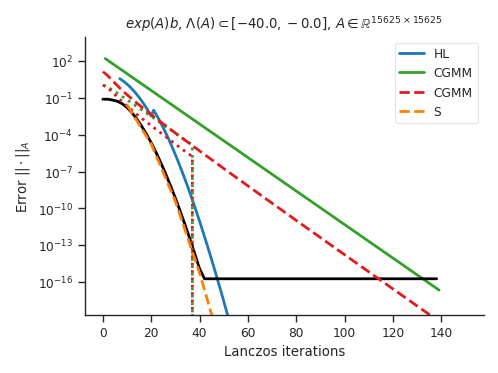
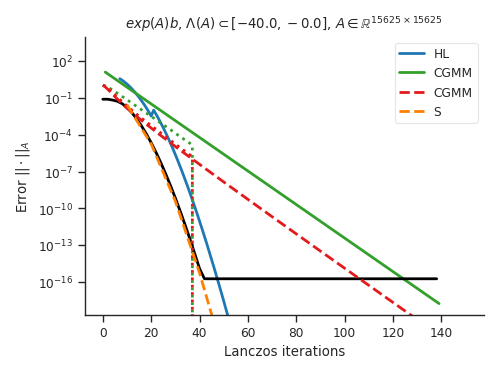
Exp uniform bound plot for theoretical purposes

Changed region(s): [[0.2108, 0.1475, 0.9036, 0.8552]]

diff --git a/experiments/bounds_exp_uniform.py b/experiments/bounds_exp_uniform.py
@@ -62,7 +62,7 @@ if __name__ == "__main__":
     radius = np.abs(center - w)
     bound_n = 140
     norm_name = "A"
-    apply_err0 = False
+    apply_err0 = True
 
     evecs = scipy.sparse.eye(N)
     if norm_name == "2":
